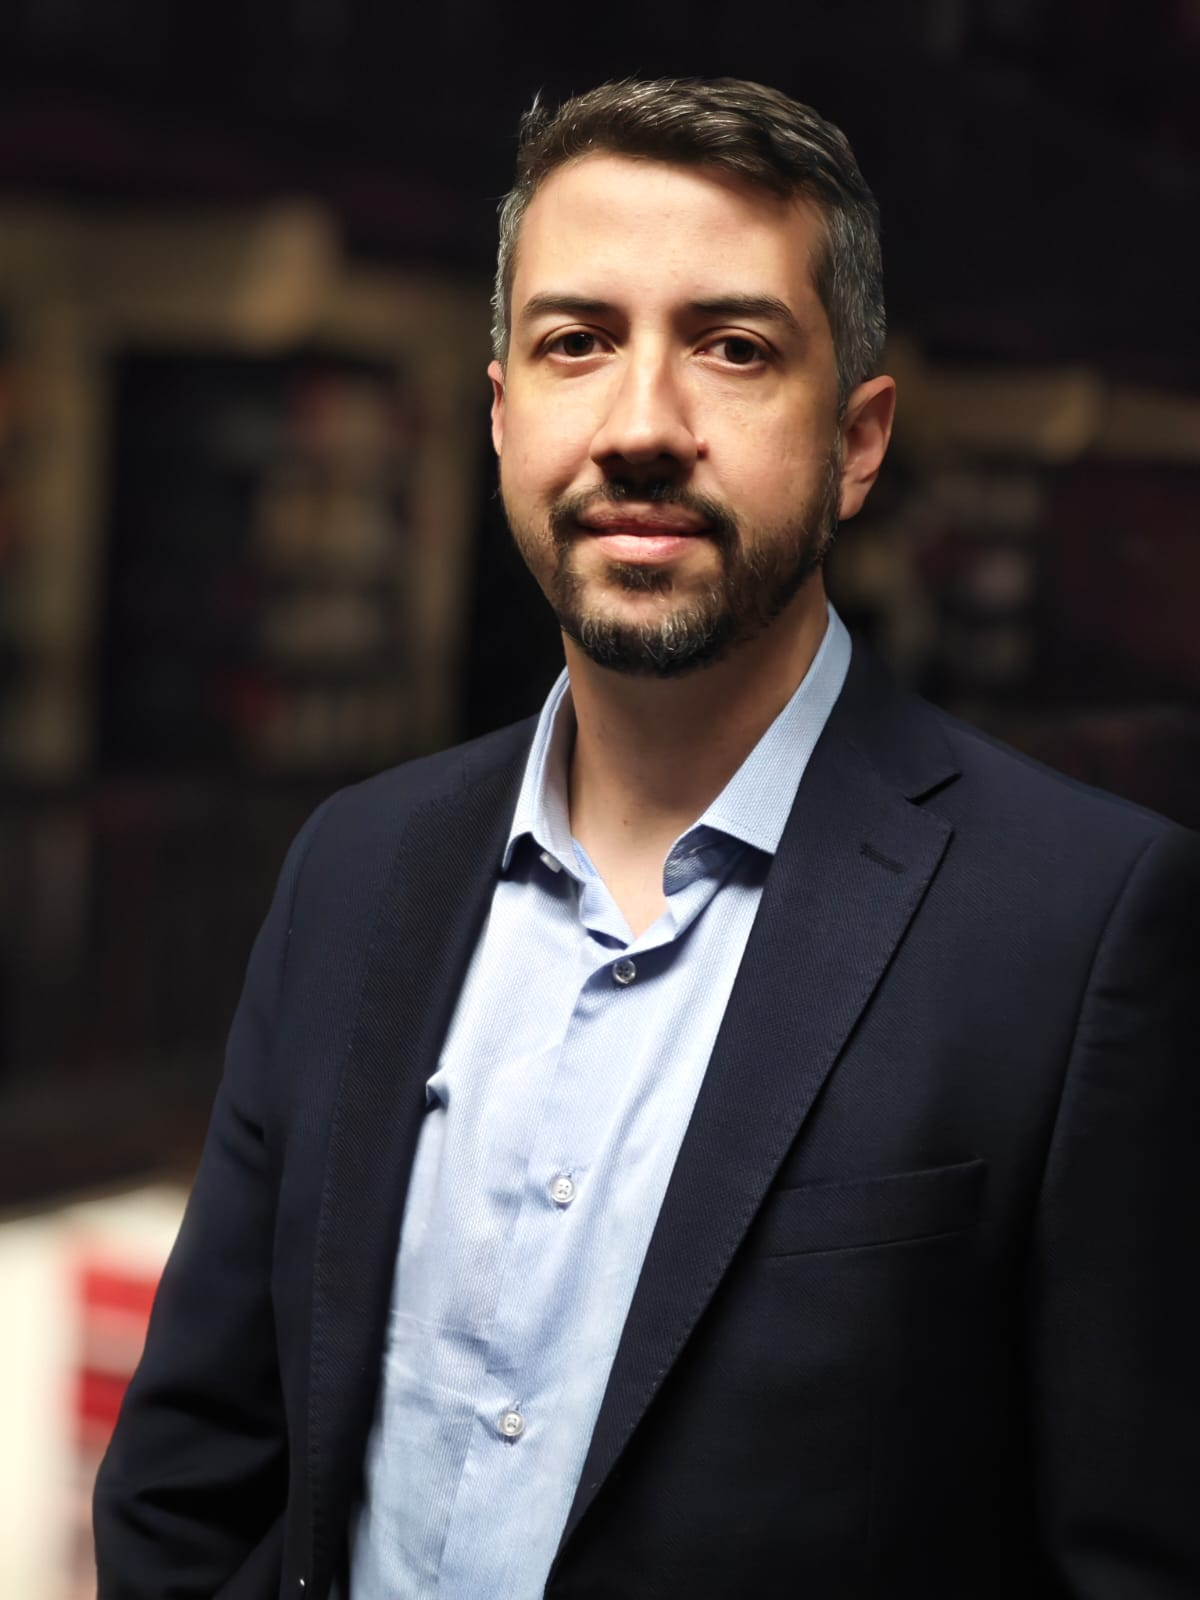
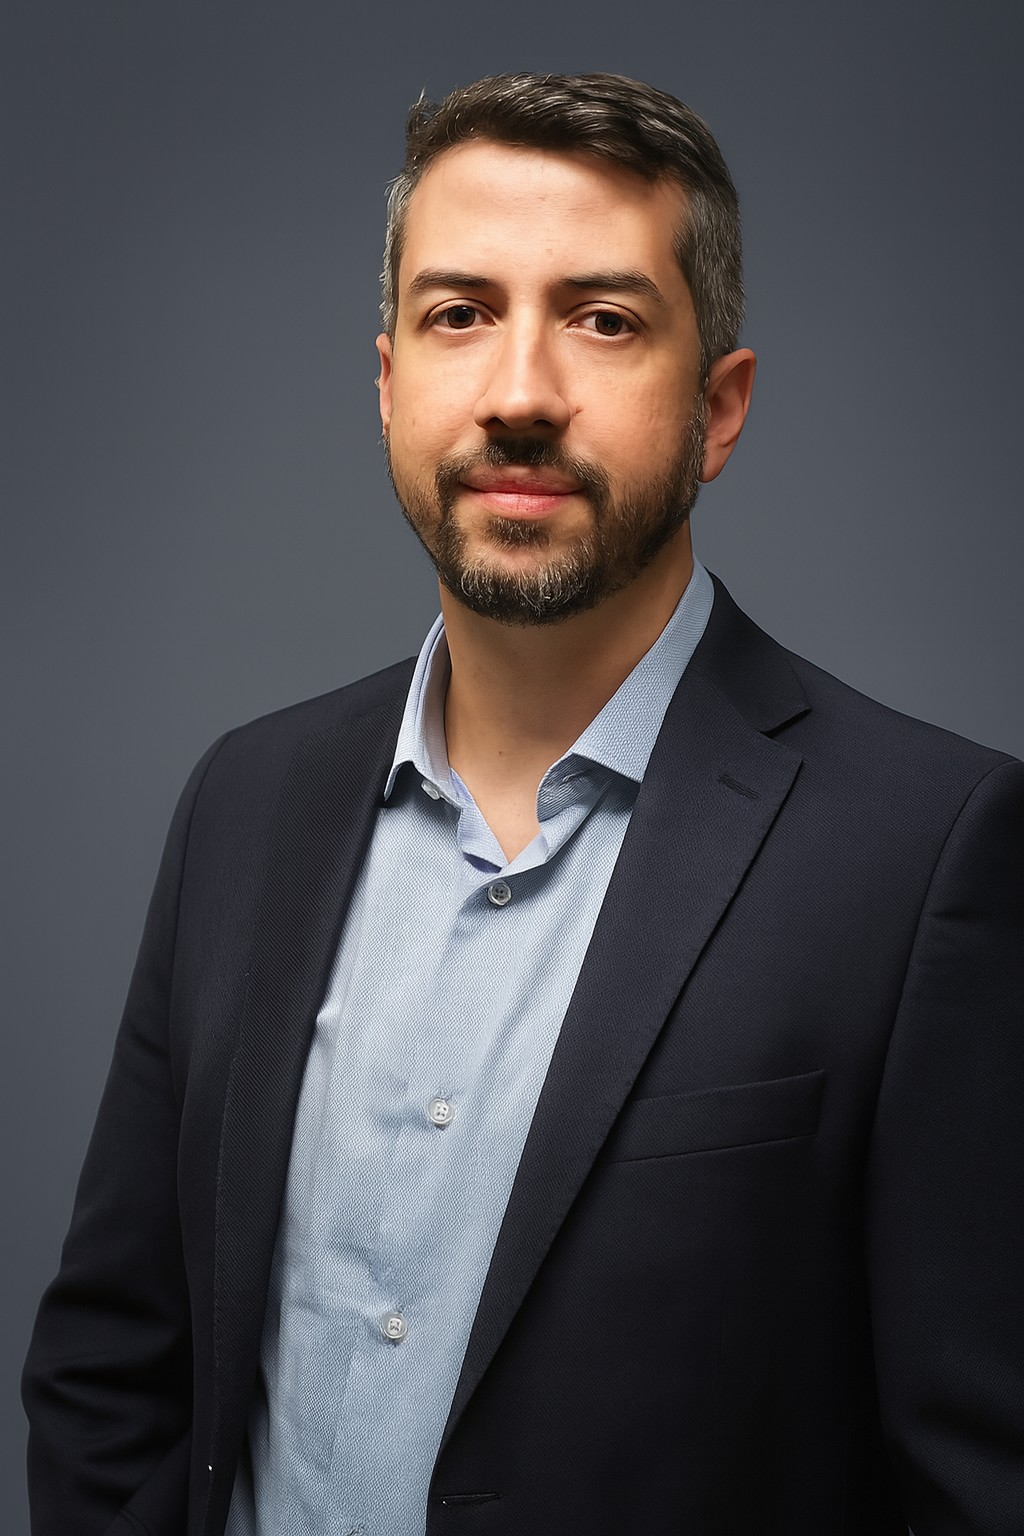
new photo

diff --git a/docs/index.html b/docs/index.html
@@ -149,7 +149,7 @@ ul.task-list li input[type="checkbox"] {
 </div>
 </div></div>
     </div>
-    <img src="img/foto_square2.jpg" class="about-image
+    <img src="img/foto_mack_3.jpg" class="about-image
   round " style="height: 16em; width: 16em;">
   </div>
 </div>
